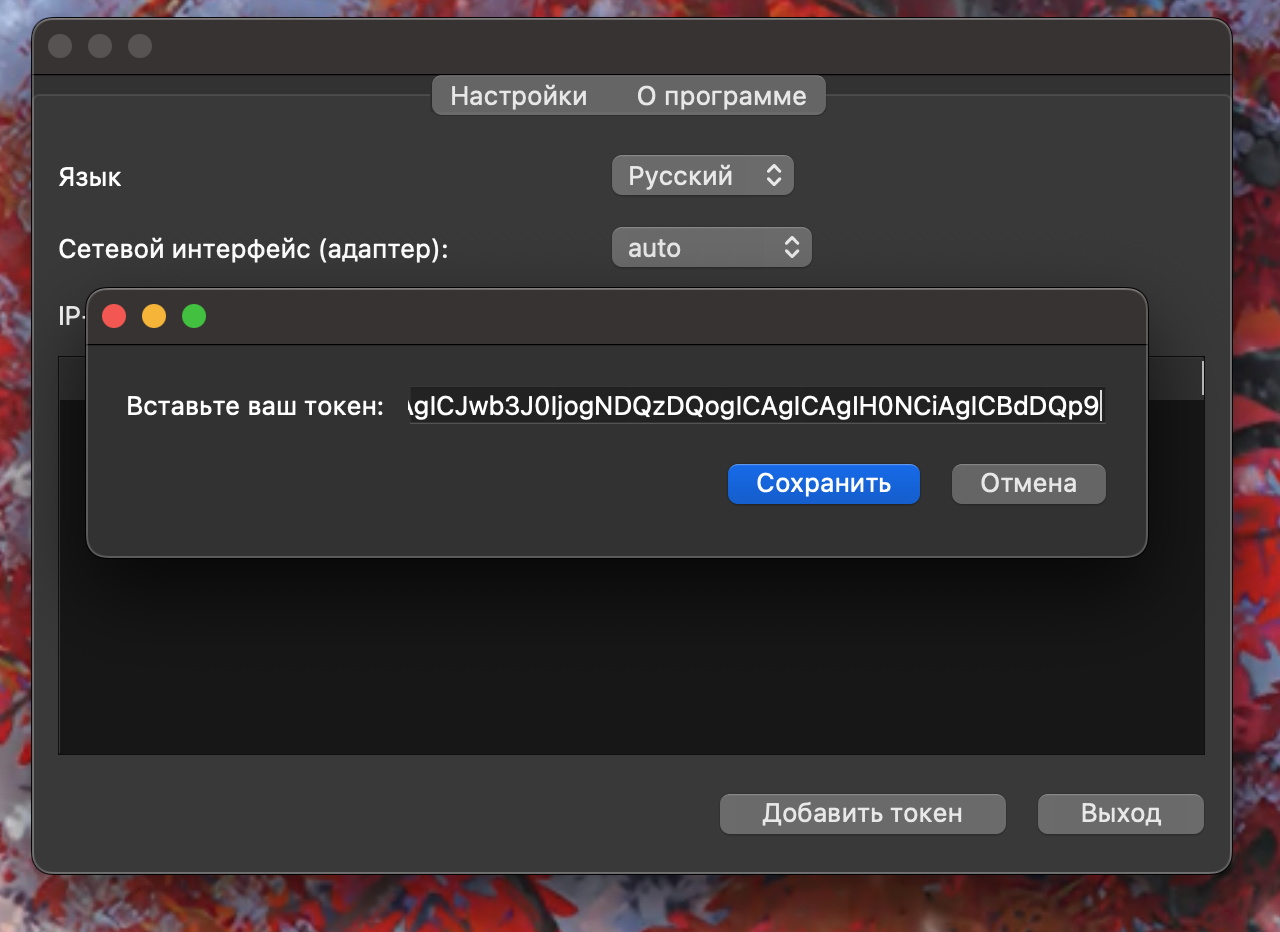
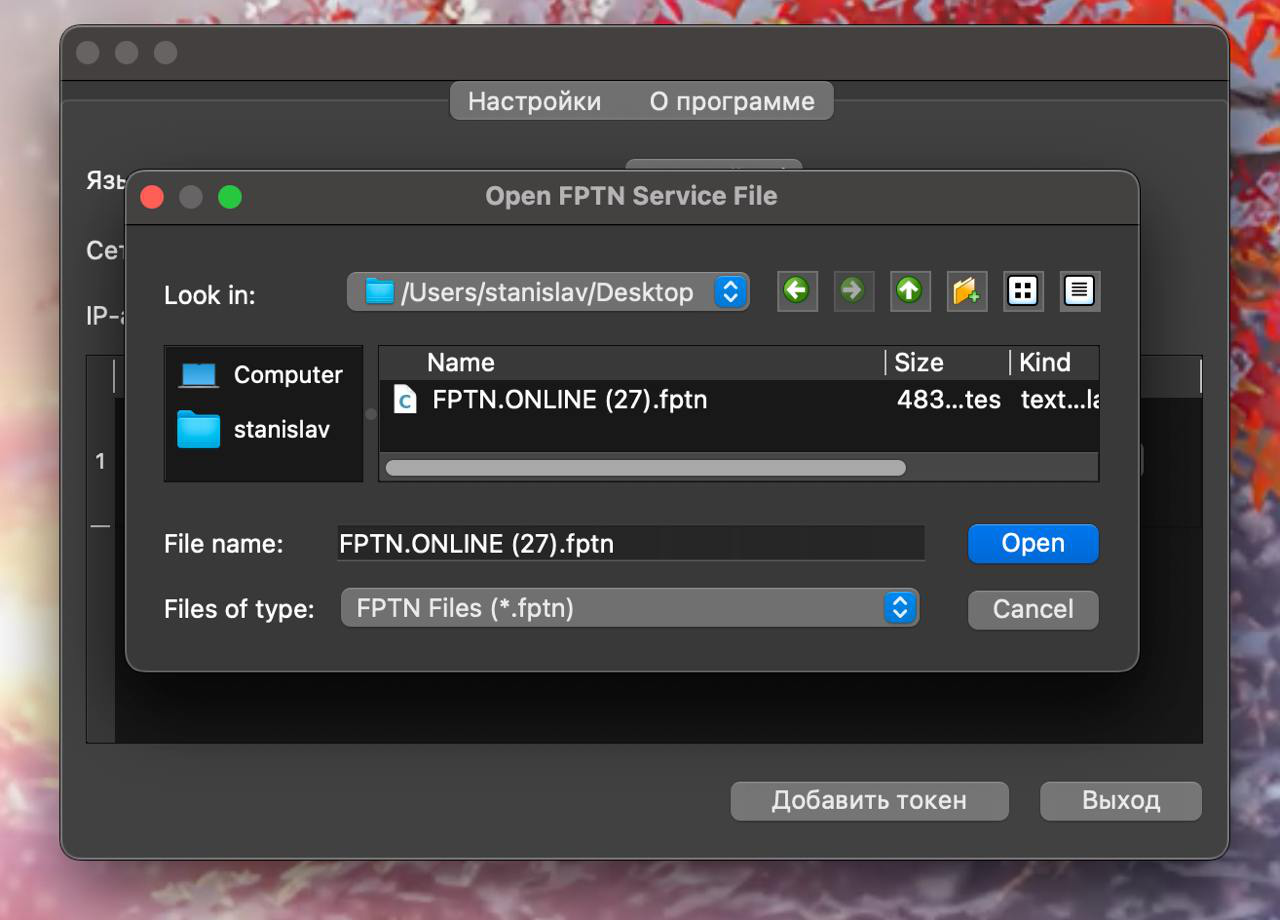
fix webpages

diff --git a/docs/index-ru.html b/docs/index-ru.html
@@ -416,8 +416,8 @@
                         </p>
 
                         <p>
-                            Из <a target="_blank" href="https://t.me/fptn_bot">Telegram-бота</a> скопируйте токен.
-                            <img style="width: 100%; max-width: 400px" class="img-center" src="images/telegram_token_ru.png" alt="Settings"/>
+                            Через <a target="_blank" href="https://t.me/fptn_bot">Telegram-бот</a> скачайте токен, используя команду /token_mac
+                            <img style="width: 100%; max-width: 400px" class="img-center" src="images/telegram_token_mac_ru.png" alt="Settings"/>
                         </p>
 
                         <p>
@@ -426,7 +426,7 @@
                         </p>
 
                         <p>
-                            Откройте настройки FPTN-клиента. Нажмите кнопку "Добавить токен" и вставьте токен.
+                            Откройте настройки FPTN-клиента. Нажмите кнопку "Добавить токен" и выберите загруженный файл настроек
                             <img style="width: 100%" class="img-center" src="images/macos/ru/settings-2.png" alt="Settings"/>
                         </p>
 
@@ -453,8 +453,8 @@
                         </p>
 
                         <p>
-                            Copy the token from the <a target="_blank" href="https://t.me/fptn_bot">Telegram bot</a>.
-                            <img style="width: 100%; max-width: 400px" class="img-center" src="images/telegram_token_en.png" alt="Settings"/>
+                            Download the configuration token through the <a target="_blank" href="https://t.me/fptn_bot">Telegram bot</a> using command /token_mac
+                            <img style="width: 100%; max-width: 400px" class="img-center" src="images/telegram_token_mac_en.png" alt="Settings"/>
                         </p>
 
                         <p>
@@ -463,7 +463,7 @@
                         </p>
 
                         <p>
-                            Open the FPTN client settings. Click the "Add Token" button and paste your token.
+                            Open the FPTN client settings. Click the "Load config" button and select the downloaded configuration file.
                             <img style="width: 100%" class="img-center" src="images/macos/en/settings-2.png" alt="Settings"/>
                         </p>
 
@@ -530,7 +530,7 @@
                             <br/>
                             После установки клиента скопируйте токен из <a target="_blank" href="https://t.me/fptn_bot">Telegram-бота</a>
                             <br/>
-                            <img style="width: 100%; max-width: 400px" class="img-center" src="images/telegram_token_ru.png" alt="Settings"/>
+                            <img style="width: 100%; max-width: 400px" class="img-center" src="images/telegram_token_win_ru.png" alt="Settings"/>
                             <br/>
                         </p>
 
@@ -595,7 +595,7 @@
 
                             After installing the client, copy the token from the <a target="_blank" href="https://t.me/fptn_bot">Telegram bot</a>.
                             <br/>
-                            <img style="width: 100%; max-width: 400px" class="img-center" src="images/telegram_token_en.png" alt="Settings"/>
+                            <img style="width: 100%; max-width: 400px" class="img-center" src="images/telegram_token_win_en.png" alt="Settings"/>
                             <br/>
                         </p>
 
@@ -660,7 +660,7 @@
                         <p>
                             Из <a target="_blank" href="https://t.me/fptn_bot">Telegram-бота</a> скопируйте токен.
                             <br/><br/>
-                            <img style="width: 100%; max-width: 400px" class="img-center" src="images/telegram_token_ru.png" alt="Settings"/>
+                            <img style="width: 100%; max-width: 400px" class="img-center" src="images/telegram_token_win_ru.png" alt="Settings"/>
 
 
 
@@ -714,7 +714,7 @@
                         <p>
                             Copy the token from the <a target="_blank" href="https://t.me/fptn_bot">Telegram bot</a>.
                             <br/><br/>
-                            <img style="width: 100%; max-width: 400px" class="img-center" src="images/telegram_token_en.png" alt="Settings"/>
+                            <img style="width: 100%; max-width: 400px" class="img-center" src="images/telegram_token_win_en.png" alt="Settings"/>
 
                             Download and run the installer. When starting the installer, Windows will show a warning window. Click "More info".
 

diff --git a/docs/index.html b/docs/index.html
@@ -416,8 +416,8 @@
                         </p>
 
                         <p>
-                            Из <a target="_blank" href="https://t.me/fptn_bot">Telegram-бота</a> скопируйте токен.
-                            <img style="width: 100%; max-width: 400px" class="img-center" src="images/telegram_token_ru.png" alt="Settings"/>
+                            Через <a target="_blank" href="https://t.me/fptn_bot">Telegram-бот</a> скачайте токен, используя команду /token_mac
+                            <img style="width: 100%; max-width: 400px" class="img-center" src="images/telegram_token_mac_ru.png" alt="Settings"/>
                         </p>
 
                         <p>
@@ -426,7 +426,7 @@
                         </p>
 
                         <p>
-                            Откройте настройки FPTN-клиента. Нажмите кнопку "Добавить токен" и вставьте токен.
+                            Откройте настройки FPTN-клиента. Нажмите кнопку "Добавить токен" и выберите загруженный файл настроек
                             <img style="width: 100%" class="img-center" src="images/macos/ru/settings-2.png" alt="Settings"/>
                         </p>
 
@@ -453,8 +453,8 @@
                         </p>
 
                         <p>
-                            Copy the token from the <a target="_blank" href="https://t.me/fptn_bot">Telegram bot</a>.
-                            <img style="width: 100%; max-width: 400px" class="img-center" src="images/telegram_token_en.png" alt="Settings"/>
+                            Download the configuration token through the <a target="_blank" href="https://t.me/fptn_bot">Telegram bot</a> using command /token_mac
+                            <img style="width: 100%; max-width: 400px" class="img-center" src="images/telegram_token_mac_en.png" alt="Settings"/>
                         </p>
 
                         <p>
@@ -463,7 +463,7 @@
                         </p>
 
                         <p>
-                            Open the FPTN client settings. Click the "Add Token" button and paste your token.
+                            Open the FPTN client settings. Click the "Load config" button and select the downloaded configuration file.
                             <img style="width: 100%" class="img-center" src="images/macos/en/settings-2.png" alt="Settings"/>
                         </p>
 
@@ -530,7 +530,7 @@
                             <br/>
                             После установки клиента скопируйте токен из <a target="_blank" href="https://t.me/fptn_bot">Telegram-бота</a>
                             <br/>
-                            <img style="width: 100%; max-width: 400px" class="img-center" src="images/telegram_token_ru.png" alt="Settings"/>
+                            <img style="width: 100%; max-width: 400px" class="img-center" src="images/telegram_token_win_ru.png" alt="Settings"/>
                             <br/>
                         </p>
 
@@ -595,7 +595,7 @@
 
                             After installing the client, copy the token from the <a target="_blank" href="https://t.me/fptn_bot">Telegram bot</a>.
                             <br/>
-                            <img style="width: 100%; max-width: 400px" class="img-center" src="images/telegram_token_en.png" alt="Settings"/>
+                            <img style="width: 100%; max-width: 400px" class="img-center" src="images/telegram_token_win_en.png" alt="Settings"/>
                             <br/>
                         </p>
 
@@ -660,7 +660,7 @@
                         <p>
                             Из <a target="_blank" href="https://t.me/fptn_bot">Telegram-бота</a> скопируйте токен.
                             <br/><br/>
-                            <img style="width: 100%; max-width: 400px" class="img-center" src="images/telegram_token_ru.png" alt="Settings"/>
+                            <img style="width: 100%; max-width: 400px" class="img-center" src="images/telegram_token_win_ru.png" alt="Settings"/>
 
 
 
@@ -714,7 +714,7 @@
                         <p>
                             Copy the token from the <a target="_blank" href="https://t.me/fptn_bot">Telegram bot</a>.
                             <br/><br/>
-                            <img style="width: 100%; max-width: 400px" class="img-center" src="images/telegram_token_en.png" alt="Settings"/>
+                            <img style="width: 100%; max-width: 400px" class="img-center" src="images/telegram_token_win_en.png" alt="Settings"/>
 
                             Download and run the installer. When starting the installer, Windows will show a warning window. Click "More info".
 
